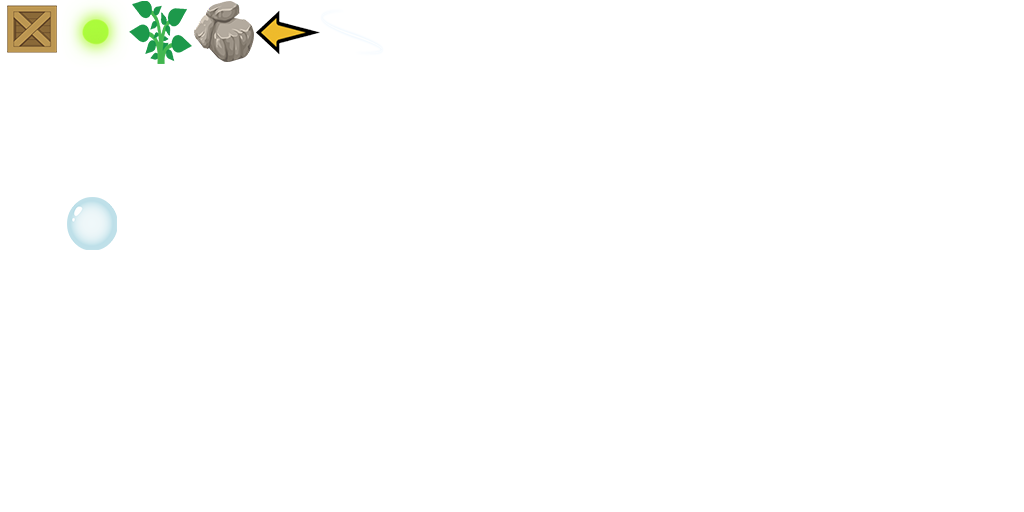
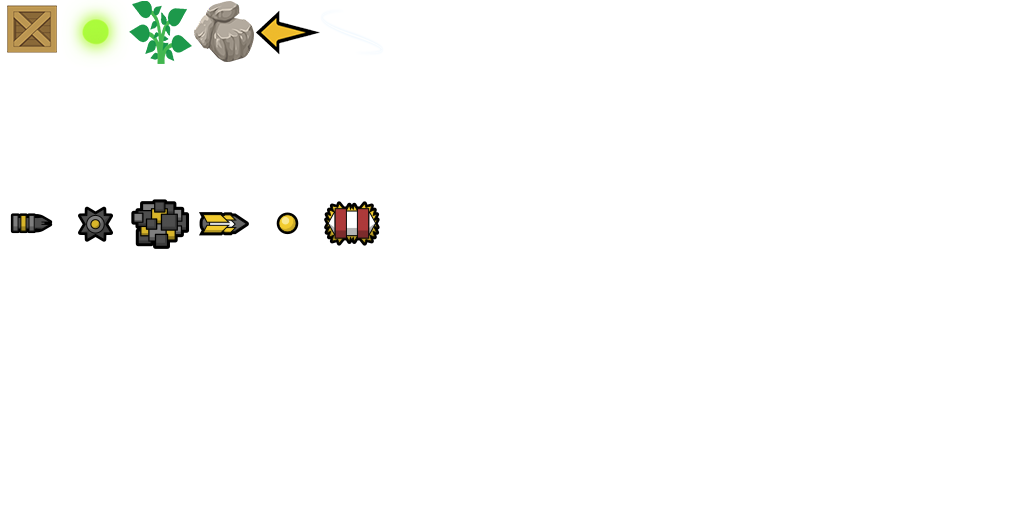
added for equip weapons their bullets

Changed region(s): [[0.0, 0.375, 0.375, 0.5]]

diff --git a/src/game/server/entities/projectile.cpp b/src/game/server/entities/projectile.cpp
@@ -19,6 +19,7 @@ CProjectile::CProjectile(CGameWorld *pGameWorld, int Type, int Owner, vec2 Pos, 
 	m_Weapon = Weapon;
 	m_StartTick = Server()->Tick();
 	m_Explosive = Explosive;
+	m_OwnerMmoProjType = GetOwnerProjID(m_Owner);
 
 	GameWorld()->InsertEntity(this);
 }
@@ -33,32 +34,32 @@ vec2 CProjectile::GetPos(float Time)
 	float Curvature = 0;
 	float Speed = 0;
 
-	switch(m_Type)
-	{
-		case WEAPON_GRENADE:
-			Curvature = GS()->Tuning()->m_GrenadeCurvature;
-			Speed = GS()->Tuning()->m_GrenadeSpeed;
-			break;
+switch (m_Type)
+{
+case WEAPON_GRENADE:
+	Curvature = GS()->Tuning()->m_GrenadeCurvature;
+	Speed = GS()->Tuning()->m_GrenadeSpeed;
+	break;
 
-		case WEAPON_SHOTGUN:
-			Curvature = GS()->Tuning()->m_ShotgunCurvature;
-			Speed = GS()->Tuning()->m_ShotgunSpeed;
-			break;
+case WEAPON_SHOTGUN:
+	Curvature = GS()->Tuning()->m_ShotgunCurvature;
+	Speed = GS()->Tuning()->m_ShotgunSpeed;
+	break;
 
-		case WEAPON_GUN:
-			Curvature = GS()->Tuning()->m_GunCurvature;
-			Speed = GS()->Tuning()->m_GunSpeed;
-			break;
-	}
+case WEAPON_GUN:
+	Curvature = GS()->Tuning()->m_GunCurvature;
+	Speed = GS()->Tuning()->m_GunSpeed;
+	break;
+}
 
-	return CalcPos(m_Pos, m_Direction, Curvature, Speed, Time);
+return CalcPos(m_Pos, m_Direction, Curvature, Speed, Time);
 }
 
 
 void CProjectile::Tick()
 {
-	float Pt = (Server()->Tick()-m_StartTick-1)/(float)Server()->TickSpeed();
-	float Ct = (Server()->Tick()-m_StartTick)/(float)Server()->TickSpeed();
+	float Pt = (Server()->Tick() - m_StartTick - 1) / (float)Server()->TickSpeed();
+	float Ct = (Server()->Tick() - m_StartTick) / (float)Server()->TickSpeed();
 	vec2 PrevPos = GetPos(Pt);
 	vec2 CurPos = GetPos(Ct);
 	if (!GS()->m_apPlayers[m_Owner] || !GS()->m_apPlayers[m_Owner]->GetCharacter())
@@ -71,22 +72,22 @@ void CProjectile::Tick()
 	}
 
 	int Collide = GS()->Collision()->IntersectLine(PrevPos, CurPos, &CurPos, 0);
-	CCharacter *OwnerChar = GS()->GetPlayerChar(m_Owner);
-	CCharacter *TargetChr = GS()->m_World.IntersectCharacter(PrevPos, CurPos, 6.0f, CurPos, OwnerChar);
+	CCharacter* OwnerChar = GS()->GetPlayerChar(m_Owner);
+	CCharacter* TargetChr = GS()->m_World.IntersectCharacter(PrevPos, CurPos, 6.0f, CurPos, OwnerChar);
 
 	m_LifeSpan--;
 
-	if(m_LifeSpan < 0 || GameLayerClipped(CurPos) || Collide || (TargetChr && !TargetChr->m_Core.m_LostData))
+	if (m_LifeSpan < 0 || GameLayerClipped(CurPos) || Collide || (TargetChr && !TargetChr->m_Core.m_LostData))
 	{
 
-		if(m_LifeSpan >= 0 || m_Weapon == WEAPON_GRENADE)
+		if (m_LifeSpan >= 0 || m_Weapon == WEAPON_GRENADE)
 			GS()->CreateSound(CurPos, m_SoundImpact);
 
-		if(m_Explosive)
+		if (m_Explosive)
 			GS()->CreateExplosion(CurPos, m_Owner, m_Weapon, m_Damage);
 
-		else if(TargetChr)
-			TargetChr->TakeDamage(m_Direction * max(0.001f, m_Force), m_Direction*-1, m_Damage, m_Owner, m_Weapon);
+		else if (TargetChr)
+			TargetChr->TakeDamage(m_Direction * max(0.001f, m_Force), m_Direction * -1, m_Damage, m_Owner, m_Weapon);
 
 		GS()->m_World.DestroyEntity(this);
 	}
@@ -99,27 +100,27 @@ void CProjectile::TickPaused()
 
 void CProjectile::Snap(int SnappingClient)
 {
-	float Ct = (Server()->Tick()-m_StartTick)/(float)Server()->TickSpeed();
-	if(NetworkClipped(SnappingClient, GetPos(Ct)))
+	float Ct = (Server()->Tick() - m_StartTick) / (float)Server()->TickSpeed();
+	if (NetworkClipped(SnappingClient, GetPos(Ct)))
 		return;
 
-	// if(GS()->CheckClient(SnappingClient))
-	// {
-	// 	CNetObj_MmoProj *pProj = static_cast<CNetObj_MmoProj *>(Server()->SnapNewItem(NETOBJTYPE_MMOPROJ, GetID(), sizeof(CNetObj_MmoProj)));
-	// 	if(!pProj)
-	// 		return;
+	if(GS()->CheckClient(SnappingClient) && m_OwnerMmoProjType >= 0)
+	{
+	 	CNetObj_MmoProj *pProj = static_cast<CNetObj_MmoProj *>(Server()->SnapNewItem(NETOBJTYPE_MMOPROJ, GetID(), sizeof(CNetObj_MmoProj)));
+	 	if(!pProj)
+	 		return;
 
-	// 	pProj->m_X = (int)m_Pos.x;
-	// 	pProj->m_Y = (int)m_Pos.y;
-	// 	pProj->m_VelX = (int)(m_Direction.x*100.0f);
-	// 	pProj->m_VelY = (int)(m_Direction.y*100.0f);
-	// 	pProj->m_StartTick = m_StartTick;
-	// 	pProj->m_Type = 1;
-	// 	pProj->m_Weapon = m_Type;
-	// 	return;
-	// }
+	 	pProj->m_X = (int)m_Pos.x;
+	 	pProj->m_Y = (int)m_Pos.y;
+	 	pProj->m_VelX = (int)(m_Direction.x*100.0f);
+	 	pProj->m_VelY = (int)(m_Direction.y*100.0f);
+	 	pProj->m_StartTick = m_StartTick;
+	 	pProj->m_Type = m_OwnerMmoProjType;
+	 	pProj->m_Weapon = m_Type;
+	 	return;
+	}
 
-	CNetObj_Projectile *pProj = static_cast<CNetObj_Projectile *>(Server()->SnapNewItem(NETOBJTYPE_PROJECTILE, GetID(), sizeof(CNetObj_Projectile)));
+	CNetObj_Projectile* pProj = static_cast<CNetObj_Projectile*>(Server()->SnapNewItem(NETOBJTYPE_PROJECTILE, GetID(), sizeof(CNetObj_Projectile)));
 	if (pProj)
 	{
 		pProj->m_X = (int)m_Pos.x;
@@ -129,4 +130,37 @@ void CProjectile::Snap(int SnappingClient)
 		pProj->m_StartTick = m_StartTick;
 		pProj->m_Type = m_Type;
 	}
+}
+
+int CProjectile::GetOwnerProjID(int ClientID)
+{
+	CPlayer* pPlayer = GS()->m_apPlayers[ClientID];
+	switch (m_Type)
+	{
+	case WEAPON_GUN:
+	{
+		int EquipID = pPlayer->GetItemEquip(EQUIP_GUN);
+		if (EquipID <= 0)
+			return -1;
+
+		return GS()->GetItemInfo(EquipID).ItemProjID;
+	}
+	case WEAPON_SHOTGUN:
+	{
+		int EquipID = pPlayer->GetItemEquip(EQUIP_SHOTGUN);
+		if (EquipID <= 0)
+			return -1;
+
+		return GS()->GetItemInfo(EquipID).ItemProjID;
+	}
+	case WEAPON_GRENADE:
+	{
+		int EquipID = pPlayer->GetItemEquip(EQUIP_GRENADE);
+		if (EquipID <= 0)
+			return -1;
+
+		return GS()->GetItemInfo(EquipID).ItemProjID;
+	}
+	}
+	return -1;
 }

diff --git a/datasrc/network.py b/datasrc/network.py
@@ -25,7 +25,8 @@ WorldType = Enum("WORLD", ["STANDARD", "CUTSCENE", "DUNGEON"])
 TalkedStyles = Enum("TALK_STYLE", ["STANDARD", "AGRESSIVE", "HAPPED"])
 MoodType = Enum("MOOD", ["ANGRY", "AGRESSED_TANK", "AGRESSED_OTHER", "NORMAL", "FRIENDLY", "QUESTING", "PLAYER_TANK"])
 MmoPickups = Enum("MMO_PICKUP", ["BOX", "EXPERIENCE", "PLANT", "ORE", "ARROW"])
-MmoProjectiles = Enum("MMO_PROJ", ["BUBBLE"])
+MmoProjectiles = Enum("MMO_PROJ", ["MAGITECH_GUN", "MAGITECH_SHOTGUN", "MAGITECH_GRENADE",
+                                    "HEAVENLY_GUN", "HEAVENLY_SHOTGUN", "HEAVENLY_GRENADE"])
 Equip = Enum("EQUIP", ["WINGS", "HAMMER", "GUN", "SHOTGUN", "GRENADE", "RIFLE", "DISCORD", "MINER"])
 Effects = Enum("EFFECT", ["SPASALON", "TELEPORT"])
 AuthCodes = Enum("AUTH", ["ALL_UNKNOWN", "ALL_MUSTCHAR", "ALL_GOOD", "LOGIN_ALREADY", 

diff --git a/src/game/server/entities/projectile.h b/src/game/server/entities/projectile.h
@@ -5,6 +5,19 @@
 
 class CProjectile : public CEntity
 {
+	vec2 m_Direction;
+	int m_LifeSpan;
+	int m_Owner;
+	int m_Type;
+	int m_Damage;
+	int m_SoundImpact;
+	int m_Weapon;
+	float m_Force;
+	int m_StartTick;
+	bool m_Explosive;
+
+	int m_OwnerMmoProjType;
+
 public:
 	CProjectile(CGameWorld *pGameWorld, int Type, int Owner, vec2 Pos, vec2 Dir, int Span,
 		int Damage, bool Explosive, float Force, int SoundImpact, int Weapon);
@@ -17,16 +30,7 @@ public:
 	virtual void Snap(int SnappingClient);
 
 private:
-	vec2 m_Direction;
-	int m_LifeSpan;
-	int m_Owner;
-	int m_Type;
-	int m_Damage;
-	int m_SoundImpact;
-	int m_Weapon;
-	float m_Force;
-	int m_StartTick;
-	bool m_Explosive;
+	int GetOwnerProjID(int ClientID);
 };
 
 #endif

diff --git a/datasrc/content.py b/datasrc/content.py
@@ -635,7 +635,11 @@ container.sprites.Add(Sprite("mmo_game_plant", set_mmogame, 2, 0, 1, 1))
 container.sprites.Add(Sprite("mmo_game_ores", set_mmogame, 3, 0, 1, 1))
 container.sprites.Add(Sprite("mmo_game_arrow", set_mmogame, 4, 0, 1, 1))
 container.sprites.Add(Sprite("mmo_game_effect", set_mmogame, 4, 0, 1, 1))
-container.sprites.Add(Sprite("mmo_game_bubble_fire", set_mmogame, 1, 3, 1, 1))
+
+# magitech fires
+container.sprites.Add(Sprite("mmo_fire_magitech_gun", set_mmogame, 0, 3, 1, 1))
+container.sprites.Add(Sprite("mmo_fire_magitech_shotgun", set_mmogame, 1, 3, 1, 1))
+container.sprites.Add(Sprite("mmo_fire_magitech_grenade", set_mmogame, 2, 3, 1, 1))
 
   
 #mmotee hammer [8 weapon] on 1 line

diff --git a/src/game/client/components/effects.cpp b/src/game/client/components/effects.cpp
@@ -386,7 +386,7 @@ void CEffects::WingsEffect(vec2 Pos, vec2 Vel, vec4 Color, float RandomSize)
 	m_pClient->m_pParticles->Add(CParticles::GROUP_MMOPROJ, &p);
 }
 
-void CEffects::BubbleEffect(vec2 Pos, vec2 Vel)
+/*void CEffects::BubbleEffect(vec2 Pos, vec2 Vel)
 {
 	if (!m_Add50hz)
 		return;
@@ -402,7 +402,7 @@ void CEffects::BubbleEffect(vec2 Pos, vec2 Vel)
 	p.m_Friction = 0.6f;
 	p.m_Gravity = frandom() * -500.0f;
 	m_pClient->m_pParticles->Add(CParticles::GROUP_MMOPROJ, &p);
-}
+}*/
 
 void CEffects::OnRender()
 {

diff --git a/src/game/server/mmocore/sqlwork/items.cpp b/src/game/server/mmocore/sqlwork/items.cpp
@@ -27,6 +27,7 @@ void ItemSql::OnInitGlobal()
 		ItemsInfo[ItemID].MaximalEnchant = (int)RES->getInt("ItemEnchantMax");
 		ItemsInfo[ItemID].iItemEnchantPrice = (int)RES->getInt("ItemEnchantPrice");
 		ItemsInfo[ItemID].Dropable = (bool)RES->getBoolean("ItemDropable");
+		ItemsInfo[ItemID].ItemProjID = (int)RES->getBoolean("ItemProjID");
 	}
 
 	// загрузить аттрибуты

diff --git a/src/game/client/components/effects.h b/src/game/client/components/effects.h
@@ -30,7 +30,7 @@ public:
 	void MmoEffectPotion(vec2 Pos, const char* Potion, bool Added);
 	void DamageMmoInd(vec2 Pos, const char* pText, int Type = -1);
 	void WingsEffect(vec2 Pos, vec2 Vel, vec4 Color, float RandomSize = 0.0f);
-	void BubbleEffect(vec2 Pos, vec2 Vel);
+	//void BubbleEffect(vec2 Pos, vec2 Vel);
 
 	virtual void OnRender();
 	float GetEffectsSpeed();

diff --git a/src/game/server/entities/character.cpp b/src/game/server/entities/character.cpp
@@ -288,7 +288,7 @@ void CCharacter::FireWeapon()
 			}
 
 			float PlayerRadius = (float)m_pPlayer->GetAttributeCount(Stats::StHammerPower, true);
-			float Radius = clamp(PlayerRadius / 10.0f, 0.5f, 7.0f);
+			float Radius = clamp(PlayerRadius / 5.0f, 0.7f, 7.0f);
 			
 			bool Hits = false;
 			GS()->CreateSound(m_Pos, SOUND_HAMMER_FIRE);

diff --git a/src/game/server/mmocore/sqlwork/items.h b/src/game/server/mmocore/sqlwork/items.h
@@ -23,6 +23,7 @@ class ItemSql : public CMmoComponent
 		int MaximalEnchant;
 		int iItemEnchantPrice;
 		bool Dropable;
+		int ItemProjID;
 
 		const char* GetName(CPlayer* pPlayer = NULL) const;
 		const char* GetDesc(CPlayer* pPlayer = NULL) const;
